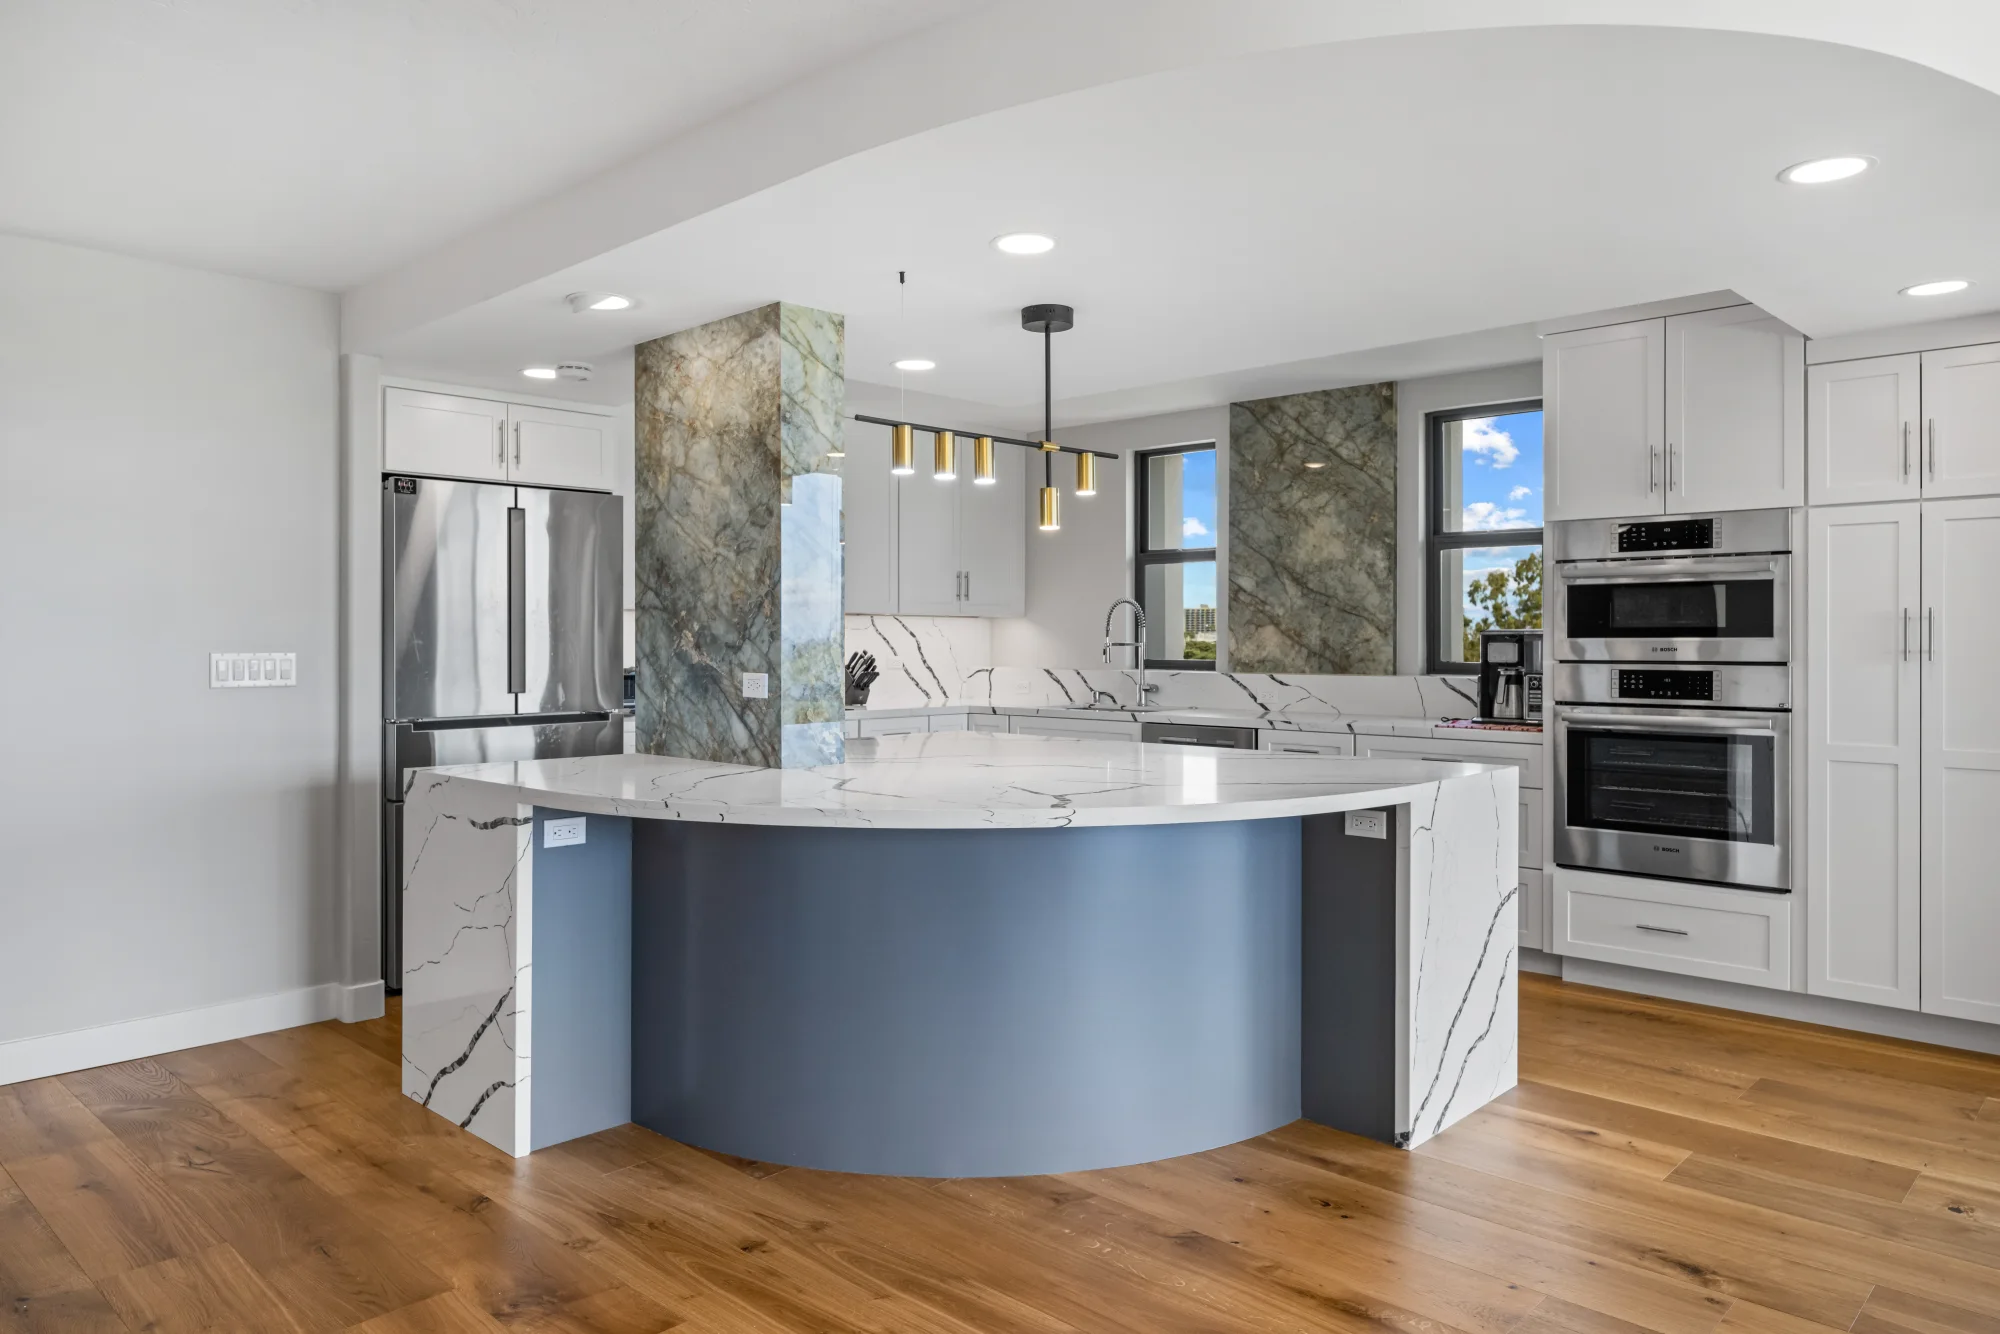
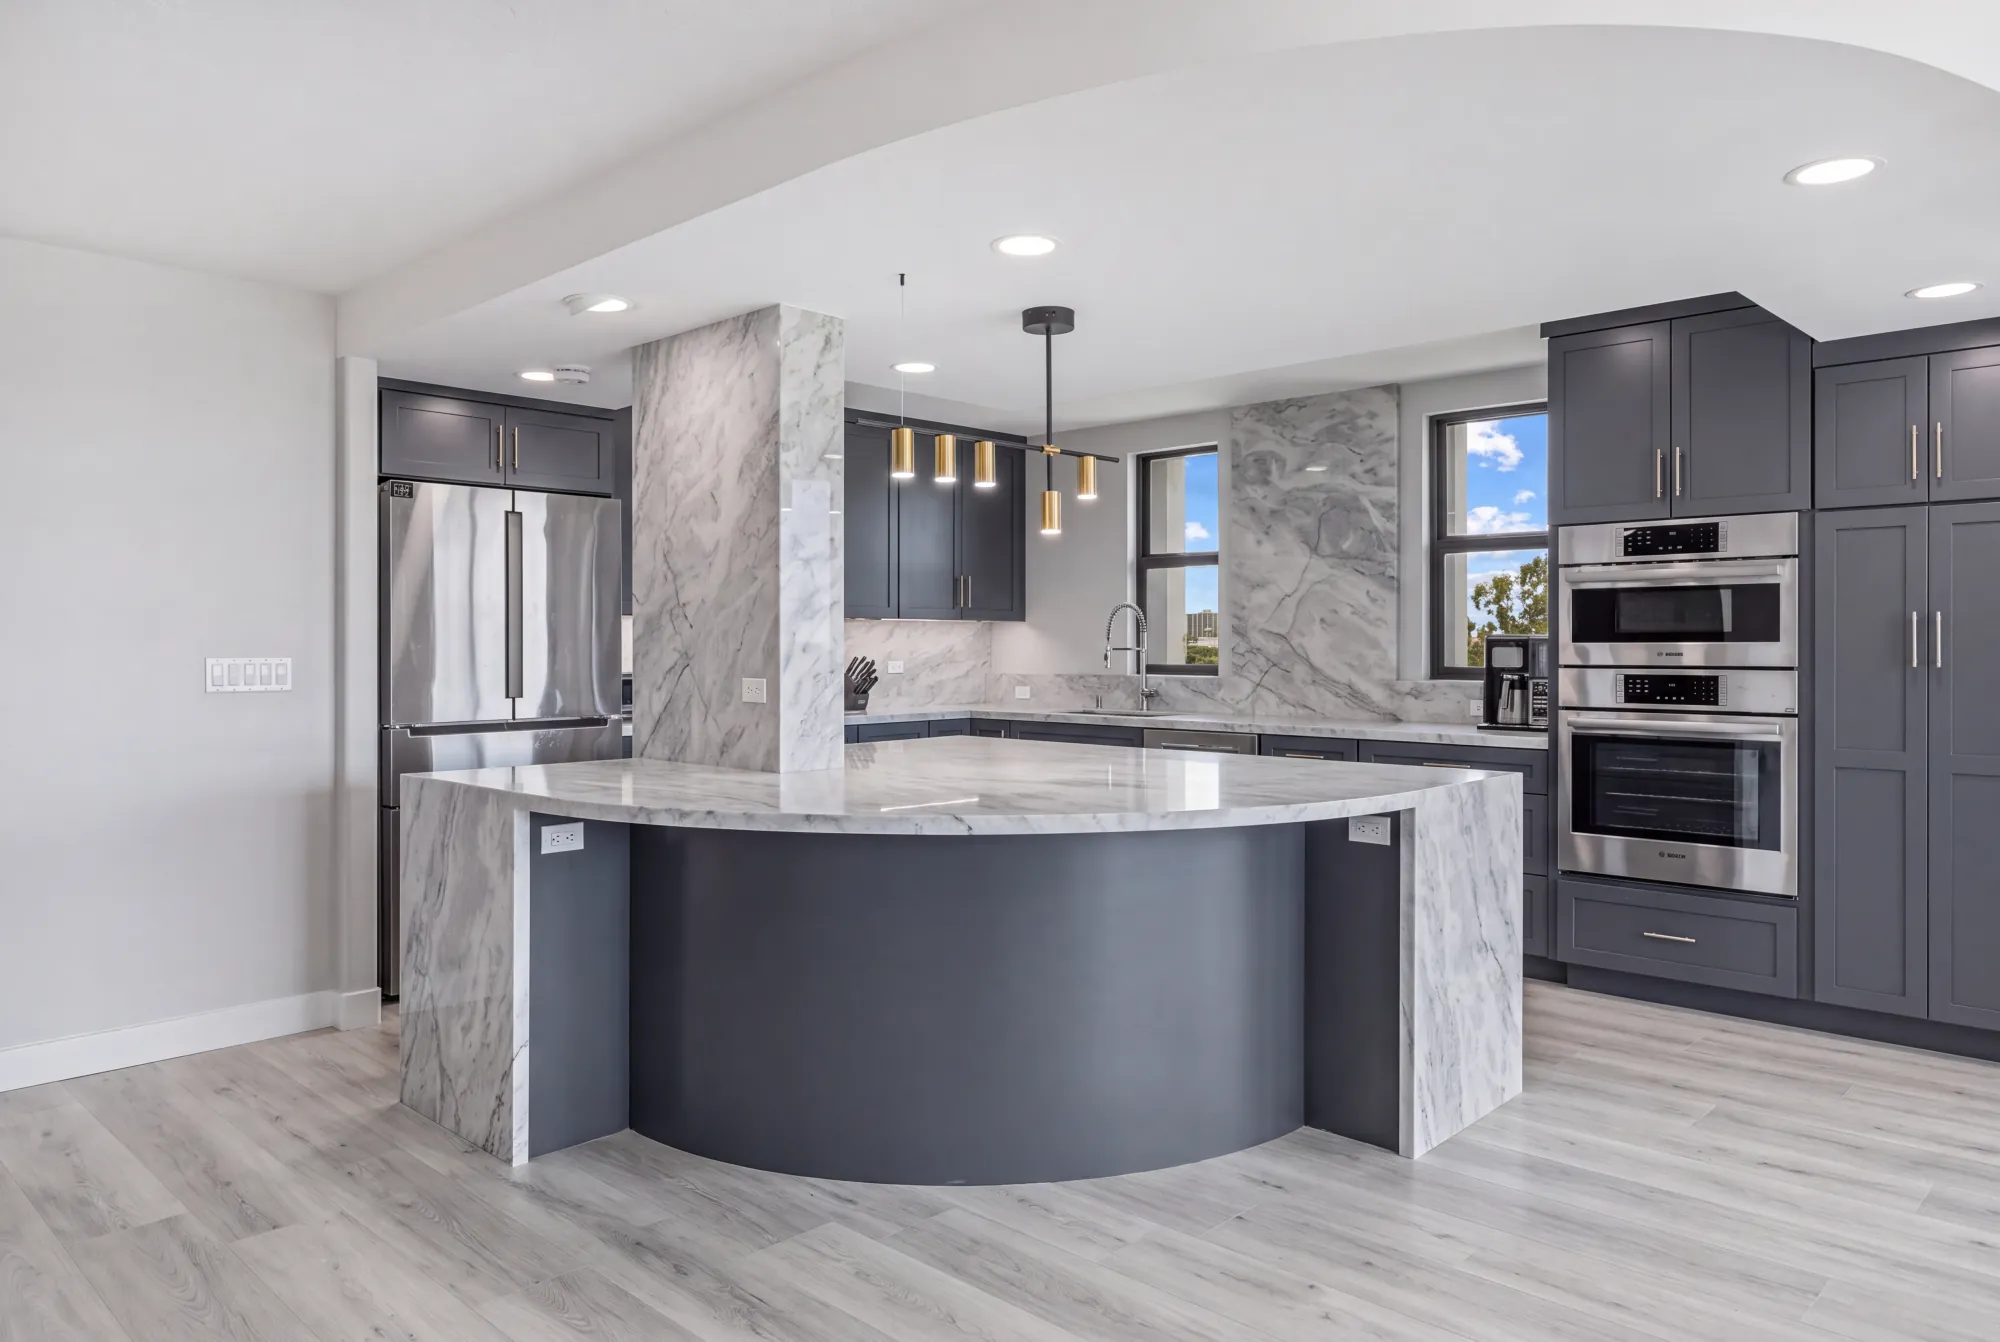
Arabian Crest in teal, Brava in charcoal
Both are kitchen-set swaps on addresses that hold more than one project.
Arabian Crest has ten photographs: 1 to 4 are the kitchen, 5 to 8 the two
bathrooms, and the whole-home page uses all ten. Brava has thirteen: 1 to 7
the kitchen, 8 to 13 the bathrooms. Only the kitchen photographs are replaced
in each.

Arabian Crest's copy needed the most work, because three of its claims were
arguments for timber specifically: that white oak takes a light finish without
turning orange, that the grain carries a large expanse without a second
material, and that the timber keeps the room warm against the lit bottles.
None of that survives a teal kitchen, so the cabinetry section is rewritten
around what the colour is actually doing and what lets the room carry it.

The counters section went the same way. It argued for engineered stone being
consistent slab to slab; it is quartzite now, which is the opposite argument,
so it makes the quarried case instead and the vinyl flooring is named in the
specs and the prose. Teal, quartzite and vinyl are all Omer's words.

Brava only needed its cabinet colour: white perimeter to charcoal, on the
kitchen page and the whole-home page. The curved island, the quartzite carried
onto the structural posts and the bar build-out are all still in the new
photographs, so that copy stands.

Checked that the Kingsfield Court card on the Carmel Valley and Del Mar pages
still says white oak, because that is a different house and still true.

diff --git a/home-renovation-carmel-valley-arabian-crest-drive.html b/home-renovation-carmel-valley-arabian-crest-drive.html
@@ -17,7 +17,7 @@
 
 
   <title>Whole Home Renovation in Carmel Valley — Arabian Crest Drive | Guild Builders Inc.</title>
-  <meta name="description" content="A whole-home renovation in Carmel Valley: a full kitchen gut in white oak with a custom built-in glass wine cellar, and two bathrooms rebuilt with custom cabinetry." />
+  <meta name="description" content="A whole-home renovation in Carmel Valley: a full kitchen gut in teal with a custom built-in glass wine cellar, and two bathrooms rebuilt with custom cabinetry." />
 
 <link rel="preload" href="fonts/montserrat-latin.woff2" as="font" type="font/woff2" crossorigin />
   <link rel="preload" href="fonts/cormorant-garamond-latin.woff2" as="font" type="font/woff2" crossorigin />
@@ -33,7 +33,7 @@
   <meta property="og:type" content="article" />
   <meta property="og:site_name" content="Guild Builders Inc." />
   <meta property="og:title" content="Whole Home Renovation in Carmel Valley — Arabian Crest Drive | Guild Builders Inc." />
-  <meta property="og:description" content="A whole-home renovation in Carmel Valley: a full kitchen gut in white oak with a custom built-in glass wine cellar, and two bathrooms rebuilt with custom cabinetry." />
+  <meta property="og:description" content="A whole-home renovation in Carmel Valley: a full kitchen gut in teal with a custom built-in glass wine cellar, and two bathrooms rebuilt with custom cabinetry." />
   <meta property="og:url" content="https://guildbuildersgroup.com/home-renovation-carmel-valley-arabian-crest-drive" />
   <meta property="og:image" content="https://guildbuildersgroup.com/arabiancrest1-1000.webp" />
   <meta name="twitter:card" content="summary_large_image" />
@@ -50,7 +50,7 @@
     "telephone": "+1-619-763-2982",
     "email": "info@guildbuildersgroup.com",
     "priceRange": "$$$",
-    "description": "A whole-home renovation in Carmel Valley: a full kitchen gut in white oak with a custom built-in glass wine cellar, and two bathrooms rebuilt with custom cabinetry.",
+    "description": "A whole-home renovation in Carmel Valley: a full kitchen gut in teal with a custom built-in glass wine cellar, and two bathrooms rebuilt with custom cabinetry.",
     "address": {
       "@type": "PostalAddress",
       "streetAddress": "1345 Encinitas Blvd",
@@ -106,7 +106,7 @@
     "@type": "Service",
     "serviceType": "Home Renovation",
     "name": "Home Renovation in Carmel Valley",
-    "description": "A whole-home renovation in Carmel Valley: a full kitchen gut in white oak with a custom built-in glass wine cellar, and two bathrooms rebuilt with custom cabinetry.",
+    "description": "A whole-home renovation in Carmel Valley: a full kitchen gut in teal with a custom built-in glass wine cellar, and two bathrooms rebuilt with custom cabinetry.",
     "url": "https://guildbuildersgroup.com/home-renovation-carmel-valley-arabian-crest-drive",
     "provider": {
       "@type": "GeneralContractor",
@@ -157,7 +157,7 @@
       <div class="container hero-content">
         <p class="eyebrow">Project &middot; Carmel Valley</p>
         <h1>Whole Home Renovation in Carmel Valley</h1>
-        <p class="hero-text">Arabian Crest Drive &mdash; a kitchen gutted and rebuilt in white oak around a custom glass wine cellar, and two bathrooms rebuilt with custom cabinetry.</p>
+        <p class="hero-text">Arabian Crest Drive &mdash; a kitchen gutted and rebuilt in teal around a custom glass wine cellar, and two bathrooms rebuilt with custom cabinetry.</p>
       </div>
     </section>
 
@@ -172,8 +172,8 @@
             <div class="project-spec"><dt>Scope</dt><dd>Kitchen and two bathrooms</dd></div>
             <div class="project-spec"><dt>Kitchen</dt><dd>7 weeks &mdash; full gut and rebuild</dd></div>
             <div class="project-spec"><dt>Bathrooms</dt><dd>4 weeks &mdash; shower-to-shower in both</dd></div>
-            <div class="project-spec"><dt>Cabinetry</dt><dd>White oak in the kitchen, custom in both bathrooms</dd></div>
-            <div class="project-spec"><dt>Counters</dt><dd>Quartz</dd></div>
+            <div class="project-spec"><dt>Cabinetry</dt><dd>Teal in the kitchen, custom in both bathrooms</dd></div>
+            <div class="project-spec"><dt>Counters</dt><dd>Quartzite</dd></div>
             <div class="project-spec"><dt>Feature</dt><dd>Custom built-in glass wine cellar</dd></div>
             <div class="project-spec"><dt>Flooring</dt><dd>Tile in one bathroom, engineered hardwood in the other</dd></div>
           </dl>
@@ -183,7 +183,7 @@
 
 <h2>The kitchen and its wine cellar</h2>
 
-<p>A full gut, rebuilt in white oak with quartz counters, and built around a custom glass-fronted wine cellar.</p>
+<p>A full gut, rebuilt in teal with quartzite counters and vinyl plank flooring, and built around a custom glass-fronted wine cellar.</p>
 
 <p>The wine cellar is the part that had to be designed before anything else was ordered. A built-in glass enclosure is not a cabinet with a door on it &mdash; it needs its own framed opening, its own cooling, power run to the right spot, and glass specified to the finished dimensions. All of that is fixed before the cabinetry around it is built, because the cabinetry has to meet it exactly.</p>
 
@@ -201,7 +201,7 @@
 
 <h2>Custom cabinetry across three rooms</h2>
 
-<p>White oak in the kitchen and custom vanities in both bathrooms, specified together.</p>
+<p>Painted teal in the kitchen and custom vanities in both bathrooms, specified together.</p>
 
 <p>That is one of the practical advantages of doing rooms at the same time. The same shop drawings, the same finish and one delivery cover all three rooms, and they end up relating to each other rather than looking separately specified years apart.</p>
 

diff --git a/kitchen-remodel-carmel-valley-arabian-crest-drive.html b/kitchen-remodel-carmel-valley-arabian-crest-drive.html
@@ -17,7 +17,7 @@
 
 
   <title>Kitchen Remodel in Carmel Valley — Arabian Crest Drive | Guild Builders Inc.</title>
-  <meta name="description" content="A full gut in Carmel Valley with white oak cabinetry, quartz counters and a custom built-in glass wine cellar." />
+  <meta name="description" content="A full gut in Carmel Valley with teal cabinetry, quartzite counters, vinyl plank flooring and a custom built-in glass wine cellar." />
 
 <link rel="preload" href="fonts/montserrat-latin.woff2" as="font" type="font/woff2" crossorigin />
   <link rel="preload" href="fonts/cormorant-garamond-latin.woff2" as="font" type="font/woff2" crossorigin />
@@ -33,7 +33,7 @@
   <meta property="og:type" content="article" />
   <meta property="og:site_name" content="Guild Builders Inc." />
   <meta property="og:title" content="Kitchen Remodel in Carmel Valley — Arabian Crest Drive | Guild Builders Inc." />
-  <meta property="og:description" content="A full gut in Carmel Valley with white oak cabinetry, quartz counters and a custom built-in glass wine cellar." />
+  <meta property="og:description" content="A full gut in Carmel Valley with teal cabinetry, quartzite counters, vinyl plank flooring and a custom built-in glass wine cellar." />
   <meta property="og:url" content="https://guildbuildersgroup.com/kitchen-remodel-carmel-valley-arabian-crest-drive" />
   <meta property="og:image" content="https://guildbuildersgroup.com/arabiancrest1-1000.webp" />
   <meta name="twitter:card" content="summary_large_image" />
@@ -50,7 +50,7 @@
     "telephone": "+1-619-763-2982",
     "email": "info@guildbuildersgroup.com",
     "priceRange": "$$$",
-    "description": "A full gut in Carmel Valley with white oak cabinetry, quartz counters and a custom built-in glass wine cellar.",
+    "description": "A full gut in Carmel Valley with teal cabinetry, quartzite counters, vinyl plank flooring and a custom built-in glass wine cellar.",
     "address": {
       "@type": "PostalAddress",
       "streetAddress": "1345 Encinitas Blvd",
@@ -106,7 +106,7 @@
     "@type": "Service",
     "serviceType": "Kitchen Remodeling",
     "name": "Kitchen Remodeling in Carmel Valley",
-    "description": "A full gut in Carmel Valley with white oak cabinetry, quartz counters and a custom built-in glass wine cellar.",
+    "description": "A full gut in Carmel Valley with teal cabinetry, quartzite counters, vinyl plank flooring and a custom built-in glass wine cellar.",
     "url": "https://guildbuildersgroup.com/kitchen-remodel-carmel-valley-arabian-crest-drive",
     "provider": {
       "@type": "GeneralContractor",
@@ -157,7 +157,7 @@
       <div class="container hero-content">
         <p class="eyebrow">Project &middot; Carmel Valley</p>
         <h1>Kitchen Remodel in Carmel Valley</h1>
-        <p class="hero-text">Arabian Crest Drive &mdash; a full gut with white oak cabinetry, quartz counters and a custom built-in glass wine cellar.</p>
+        <p class="hero-text">Arabian Crest Drive &mdash; a full gut with teal cabinetry, quartzite counters, vinyl plank flooring and a custom built-in glass wine cellar.</p>
       </div>
     </section>
 
@@ -171,8 +171,9 @@
             <div class="project-spec"><dt>Location</dt><dd>Carmel Valley, San Diego County</dd></div>
             <div class="project-spec"><dt>Timeline</dt><dd>7 weeks</dd></div>
             <div class="project-spec"><dt>Scope</dt><dd>Full gut and rebuild</dd></div>
-            <div class="project-spec"><dt>Cabinetry</dt><dd>White oak</dd></div>
-            <div class="project-spec"><dt>Counters</dt><dd>Quartz</dd></div>
+            <div class="project-spec"><dt>Cabinetry</dt><dd>Teal, painted</dd></div>
+            <div class="project-spec"><dt>Counters</dt><dd>Quartzite</dd></div>
+            <div class="project-spec"><dt>Flooring</dt><dd>Luxury vinyl plank</dd></div>
             <div class="project-spec"><dt>Feature</dt><dd>Custom built-in glass wine cellar</dd></div>
           </dl>
 
@@ -189,11 +190,13 @@
 
 <h2>Cabinetry</h2>
 
-<p>White oak throughout. It takes a light finish without turning orange the way some oaks do, and the grain carries a large expanse without needing a second material to break it up. Against the glass and the bottles behind it, the timber keeps the room warm rather than clinical.</p>
+<p>Teal throughout, hood included. A colour this committed only works where the room can carry it, and this one can: the ceiling runs high, there is a clerestory window feeding daylight in above the cabinets, and the walls stay white. Against the lit bottles behind the glass, the teal gives the room a second thing to look at instead of leaving the cellar to do all the work on its own.</p>
 
-<h2>Counters</h2>
+<h2>Counters and flooring</h2>
 
-<p>Quartz, for a household that wanted a surface needing no sealing and no particular thought. Engineered stone is consistent slab to slab, so what is specified is what arrives — useful where the cabinetry and the cellar are already doing the visual work.</p>
+<p>Quartzite counters, with the veining carried up behind the range. Quartzite is quarried rather than engineered, so the slab is its own thing and no two are alike, and it takes a hot pan in a way engineered quartz does not. It does want sealing, which is the trade for the veining.</p>
+
+<p>Luxury vinyl plank on the floor. Waterproof, warmer and quieter underfoot than tile, and it takes the traffic a kitchen that doubles as a gathering room actually gets.</p>
 
 <h2>The result</h2>
 

diff --git a/kitchen-remodel-carlsbad-brava-street.html b/kitchen-remodel-carlsbad-brava-street.html
@@ -172,7 +172,7 @@
             <div class="project-spec"><dt>Timeline</dt><dd>8 weeks</dd></div>
             <div class="project-spec"><dt>Scope</dt><dd>Full gut, bar area built out</dd></div>
             <div class="project-spec"><dt>Layout</dt><dd>All appliances relocated</dd></div>
-            <div class="project-spec"><dt>Cabinetry</dt><dd>Custom island and bar, semi-custom white perimeter</dd></div>
+            <div class="project-spec"><dt>Cabinetry</dt><dd>Custom island and bar, semi-custom charcoal perimeter</dd></div>
             <div class="project-spec"><dt>Counters</dt><dd>Quartzite, curved island</dd></div>
             <div class="project-spec"><dt>Backsplash</dt><dd>Quartzite, and stone-clad posts</dd></div>
             <div class="project-spec"><dt>Flooring</dt><dd>New luxury vinyl plank</dd></div>
@@ -183,7 +183,7 @@
 
 <h2>Custom where it counts, semi-custom where it does not</h2>
 
-<p>The perimeter cabinetry is semi-custom in white; the island and the bar are custom. That split follows the work rather than a preference.</p>
+<p>The perimeter cabinetry is semi-custom in charcoal; the island and the bar are custom. That split follows the work rather than a preference.</p>
 
 <p>The perimeter runs divided sensibly into standard widths, so semi-custom did the job — full custom there would have bought flexibility the walls did not require. The island could not be anything but custom, because it is curved, and the bar area had to be built to a space that did not previously exist as one.</p>
 

diff --git a/home-renovation-carlsbad-brava-street.html b/home-renovation-carlsbad-brava-street.html
@@ -172,7 +172,7 @@
             <div class="project-spec"><dt>Scope</dt><dd>Kitchen, bar area and three bathrooms</dd></div>
             <div class="project-spec"><dt>Kitchen</dt><dd>8 weeks &mdash; full gut, all appliances relocated</dd></div>
             <div class="project-spec"><dt>Bathrooms</dt><dd>6 weeks &mdash; master, shower-to-tub, shower-to-shower</dd></div>
-            <div class="project-spec"><dt>Cabinetry</dt><dd>Custom island and bar, semi-custom white perimeter, custom vanities</dd></div>
+            <div class="project-spec"><dt>Cabinetry</dt><dd>Custom island and bar, semi-custom charcoal perimeter, custom vanities</dd></div>
             <div class="project-spec"><dt>Counters</dt><dd>Quartzite, curved island</dd></div>
             <div class="project-spec"><dt>Stone</dt><dd>Quartzite backsplash and stone-clad structural posts</dd></div>
             <div class="project-spec"><dt>Flooring</dt><dd>New luxury vinyl plank</dd></div>

diff --git a/del-mar.html b/del-mar.html
@@ -212,7 +212,7 @@
           <img src="arabiancrest1-1000.webp" alt="Arabian Crest Drive &mdash; whole home renovation in Carmel Valley" loading="lazy" />
           <div class="city-project-body">
             <h3>Arabian Crest Drive &mdash; Whole Home Renovation in Carmel Valley</h3>
-            <p>A whole-home renovation in Carmel Valley: a full kitchen gut in white oak with a custom built-in glass wine cellar, and two bathrooms rebuilt with custom cabinetry.</p>
+            <p>A whole-home renovation in Carmel Valley: a full kitchen gut in teal with a custom built-in glass wine cellar, and two bathrooms rebuilt with custom cabinetry.</p>
             <span class="city-project-cta">See the project &rarr;</span>
           </div>
         </a>

diff --git a/carmel-valley.html b/carmel-valley.html
@@ -212,7 +212,7 @@
           <img src="arabiancrest1-1000.webp" alt="Arabian Crest Drive &mdash; whole home renovation in Carmel Valley" loading="lazy" />
           <div class="city-project-body">
             <h3>Arabian Crest Drive &mdash; Whole Home Renovation</h3>
-            <p>A whole-home renovation in Carmel Valley: a full kitchen gut in white oak with a custom built-in glass wine cellar, and two bathrooms rebuilt with custom cabinetry.</p>
+            <p>A whole-home renovation in Carmel Valley: a full kitchen gut in teal with a custom built-in glass wine cellar, and two bathrooms rebuilt with custom cabinetry.</p>
             <span class="city-project-cta">See the project &rarr;</span>
           </div>
         </a>
